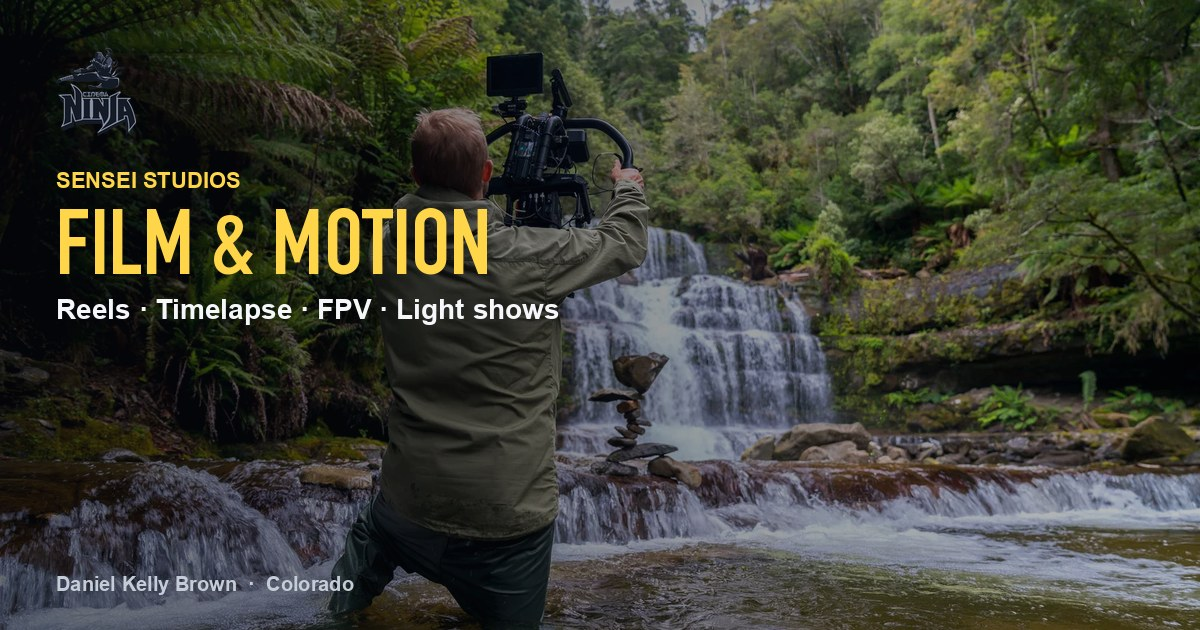
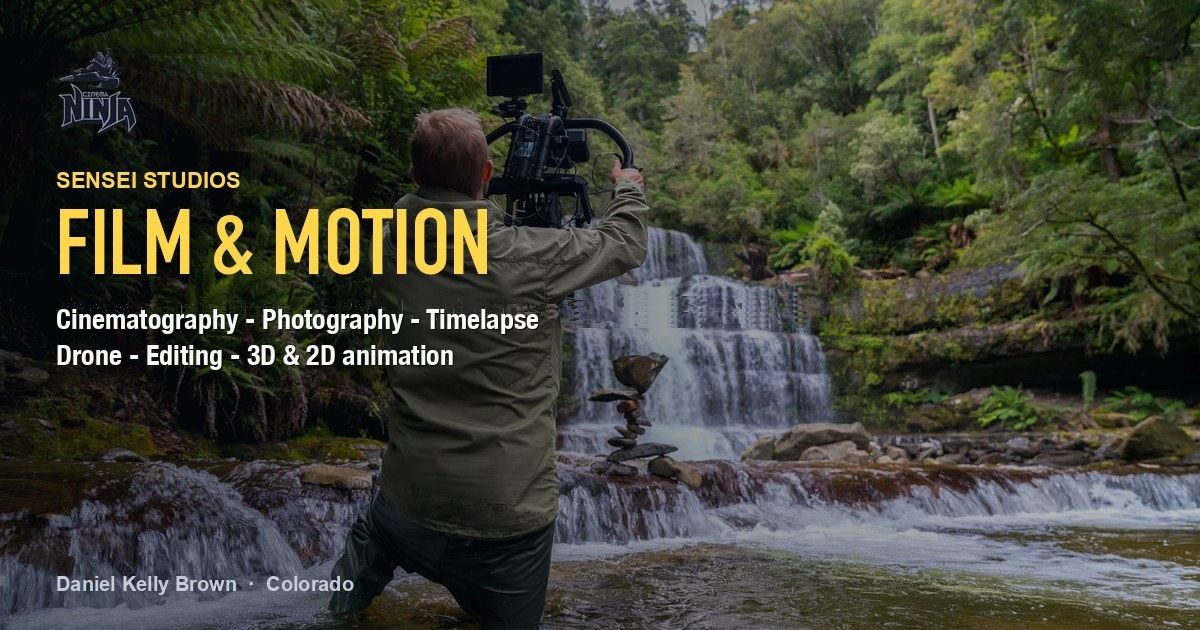
Update the Film & Motion share card to list the current services.

Changed region(s): [[0.0308, 0.4524, 0.6783, 0.6032]]

diff --git a/film/index.html b/film/index.html
@@ -4,19 +4,19 @@
   <meta charset="UTF-8">
   <meta name="viewport" content="width=device-width, initial-scale=1.0">
   <title>Film &amp; Motion | Sensei Studios</title>
-  <meta name="description" content="Director reel, 8K motion-controlled timelapse, FPV drone, Cinema 4D, and the equipment arsenal of Daniel Kelly Brown.">
+  <meta name="description" content="Cinematography, photography, timelapse, drone, editing, and 3D &amp; 2D animation by Daniel Kelly Brown.">
   <link rel="canonical" href="https://senseistudios.com/?open=film">
   <meta http-equiv="refresh" content="0;url=/?open=film">
   <meta property="og:title" content="Film &amp; Motion | Sensei Studios">
-  <meta property="og:description" content="Director reel, 8K motion-controlled timelapse, FPV drone, Cinema 4D, and the equipment arsenal of Daniel Kelly Brown.">
-  <meta property="og:image" content="https://senseistudios.com/assets/og-cover.jpg">
+  <meta property="og:description" content="Cinematography, photography, timelapse, drone, editing, and 3D &amp; 2D animation by Daniel Kelly Brown.">
+  <meta property="og:image" content="https://senseistudios.com/assets/og-film.jpg?v=2">
   <meta property="og:type" content="website">
   <meta property="og:url" content="https://senseistudios.com/?open=film">
   <meta property="og:site_name" content="Sensei Studios">
   <meta name="twitter:card" content="summary_large_image">
   <meta name="twitter:title" content="Film &amp; Motion | Sensei Studios">
-  <meta name="twitter:description" content="Director reel, 8K motion-controlled timelapse, FPV drone, Cinema 4D, and the equipment arsenal of Daniel Kelly Brown.">
-  <meta name="twitter:image" content="https://senseistudios.com/assets/og-cover.jpg">
+  <meta name="twitter:description" content="Cinematography, photography, timelapse, drone, editing, and 3D &amp; 2D animation by Daniel Kelly Brown.">
+  <meta name="twitter:image" content="https://senseistudios.com/assets/og-film.jpg?v=2">
   <link rel="icon" type="image/png" href="/assets/icons/favicon-32.png">
   <script>
     (function () {

diff --git a/worker.js b/worker.js
@@ -8,8 +8,8 @@ const SECTION_META = {
   film: {
     title: 'Film & Motion | Sensei Studios',
     description:
-      'Director reel, 8K motion-controlled timelapse, FPV drone hyperlapses, Cinema 4D, and commercial cinematography by Daniel Kelly Brown.',
-    image: '/assets/og-film.jpg',
+      'Cinematography, photography, timelapse, drone, editing, and 3D & 2D animation by Daniel Kelly Brown.',
+    image: '/assets/og-film.jpg?v=2',
     canonical: '/film'
   },
   wood: {
